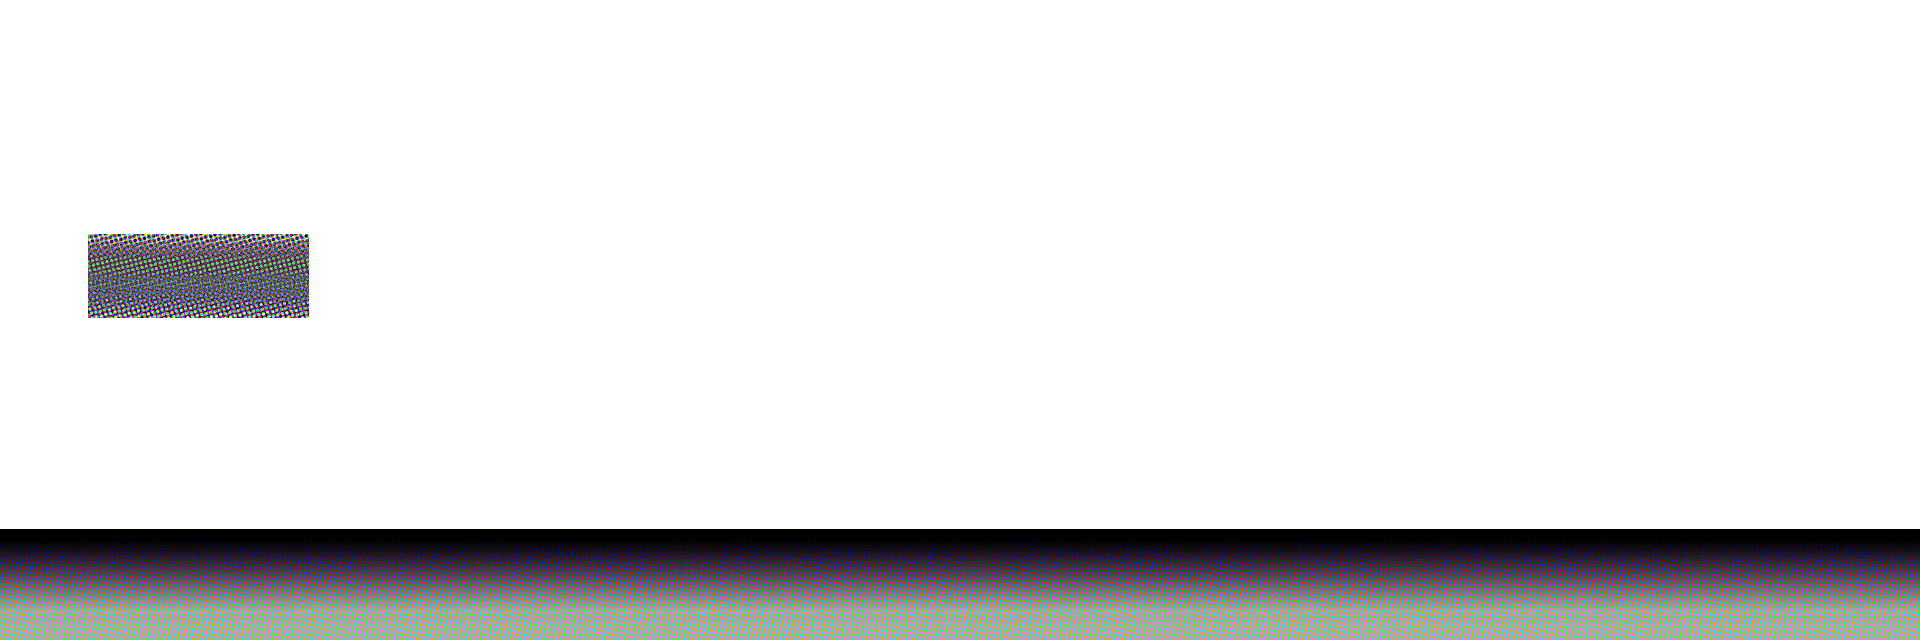
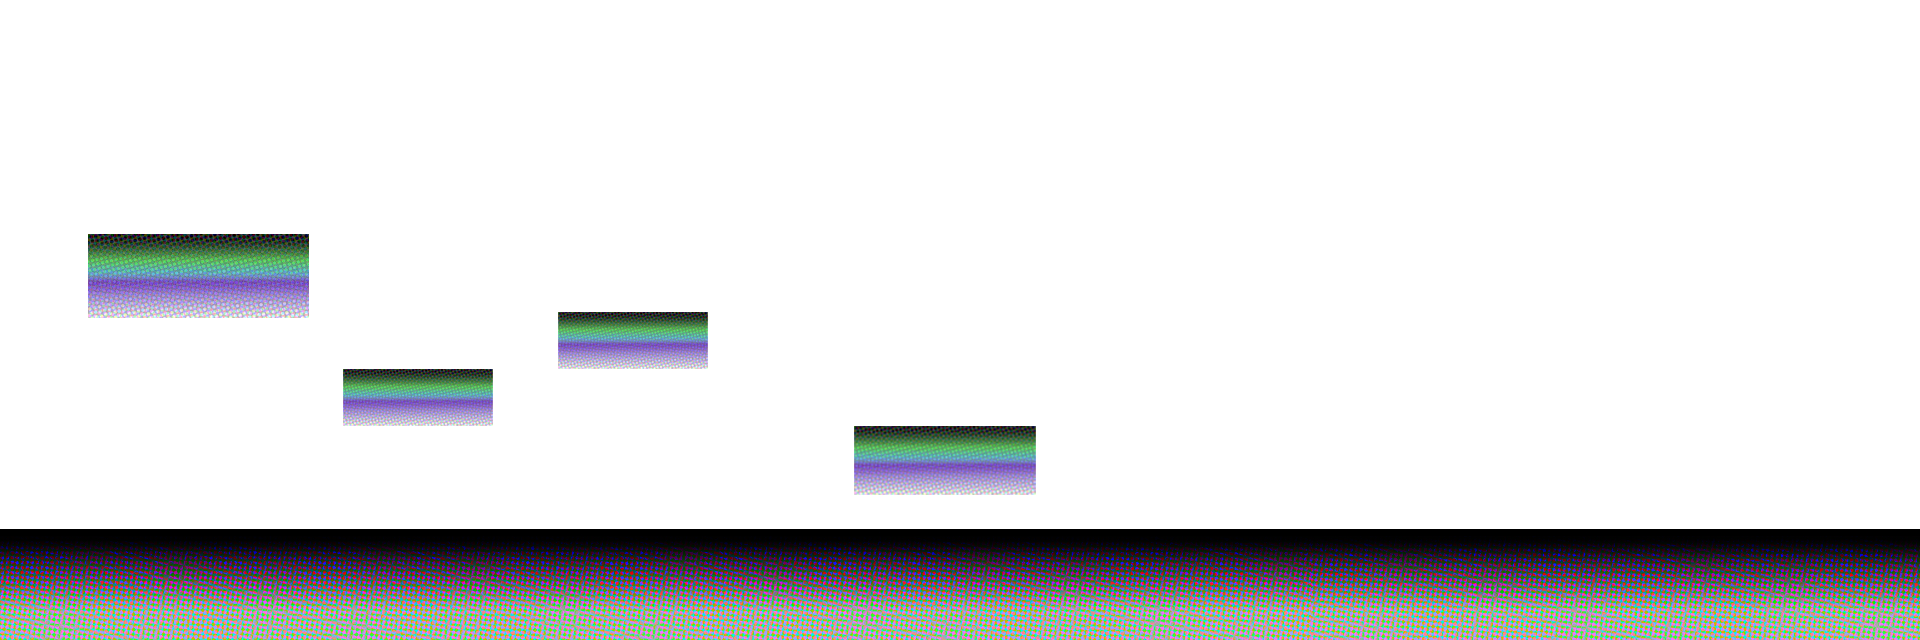
Death
Player can now die

Changed region(s): [[0.1562, 0.4688, 0.375, 0.6875], [0.0312, 0.3438, 0.1875, 0.5], [0.4375, 0.6562, 0.5625, 0.7812]]

diff --git a/Game.java b/Game.java
@@ -36,6 +36,8 @@ public class Game extends JPanel implements KeyListener {
     private int camX = 0;
     private int camY = 0;
 
+    private List<Rectangle> deathZones = new ArrayList<>();
+
     private int spawnX;
     private int spawnY;
 
@@ -116,6 +118,11 @@ public class Game extends JPanel implements KeyListener {
                         int y = obj.getInt("y");
                         int width = obj.getInt("width");
                         int height = obj.getInt("height");
+
+                        if (obj.optString("name").equalsIgnoreCase("death")) {
+                            deathZones.add(new Rectangle(x, y, width, height));
+                            continue; 
+                        }
                         
                         // CHECK FOR SPAWN POINT
                         if (obj.optString("name").equalsIgnoreCase("spawn")) {
@@ -172,6 +179,7 @@ public class Game extends JPanel implements KeyListener {
     private void loadNewLevel(String newLevelFilePath) {
     // Wipe the old data
     platforms.clear();
+    deathZones.clear();
     levelBackground = null;
     levelForeground = null;
 
@@ -234,6 +242,19 @@ public class Game extends JPanel implements KeyListener {
         advanceToNextLevel();
     }
 
+    // 6. CHECK FOR DEATH ZONES
+    for (Rectangle zone : deathZones) {
+        if (player.getBounds().intersects(zone)) {
+            System.out.println("Player fell into a death zone!");
+            respawnPlayer();
+            break; 
+        }
+    }
+
+    if (player.getY() > 2000) { // Safety net if they miss a death zone
+        respawnPlayer();
+    }
+
     repaint();
 
     // Center the camera on the player
@@ -244,7 +265,7 @@ public class Game extends JPanel implements KeyListener {
     if (camX < 0) camX = 0;
     //if (camY < 0) camY = 0;
 
-}
+    }
     
     @Override
     public void paintComponent(Graphics g) {
@@ -284,7 +305,14 @@ public class Game extends JPanel implements KeyListener {
         g2d.translate(camX, camY); // Reset for next frame
     }
 
-    // WASD controls, key pressed
+    private void respawnPlayer() {
+        player.setX(spawnX);
+        player.setY(spawnY);
+        player.setXVelocity(0);
+        player.setYVelocity(0);
+    }
+
+// WASD controls, key pressed
 @Override
 public void keyPressed(KeyEvent e) {
     int keyCode = e.getKeyCode();
